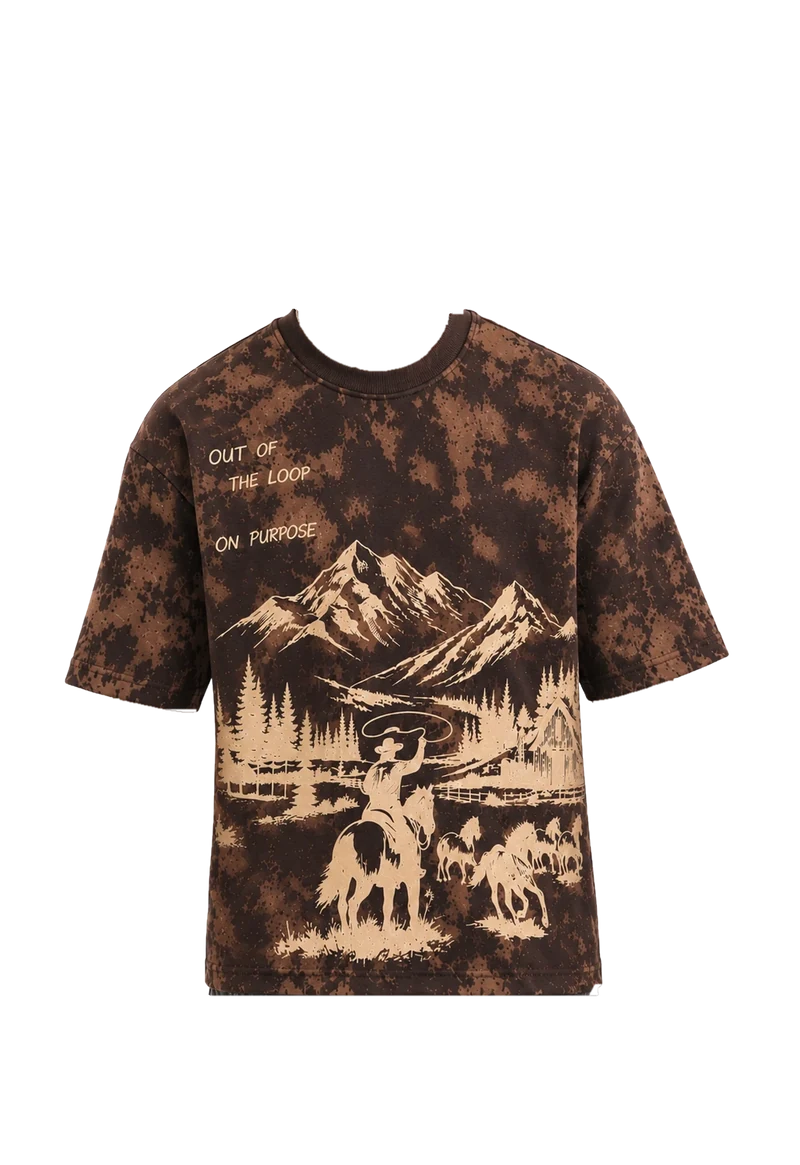
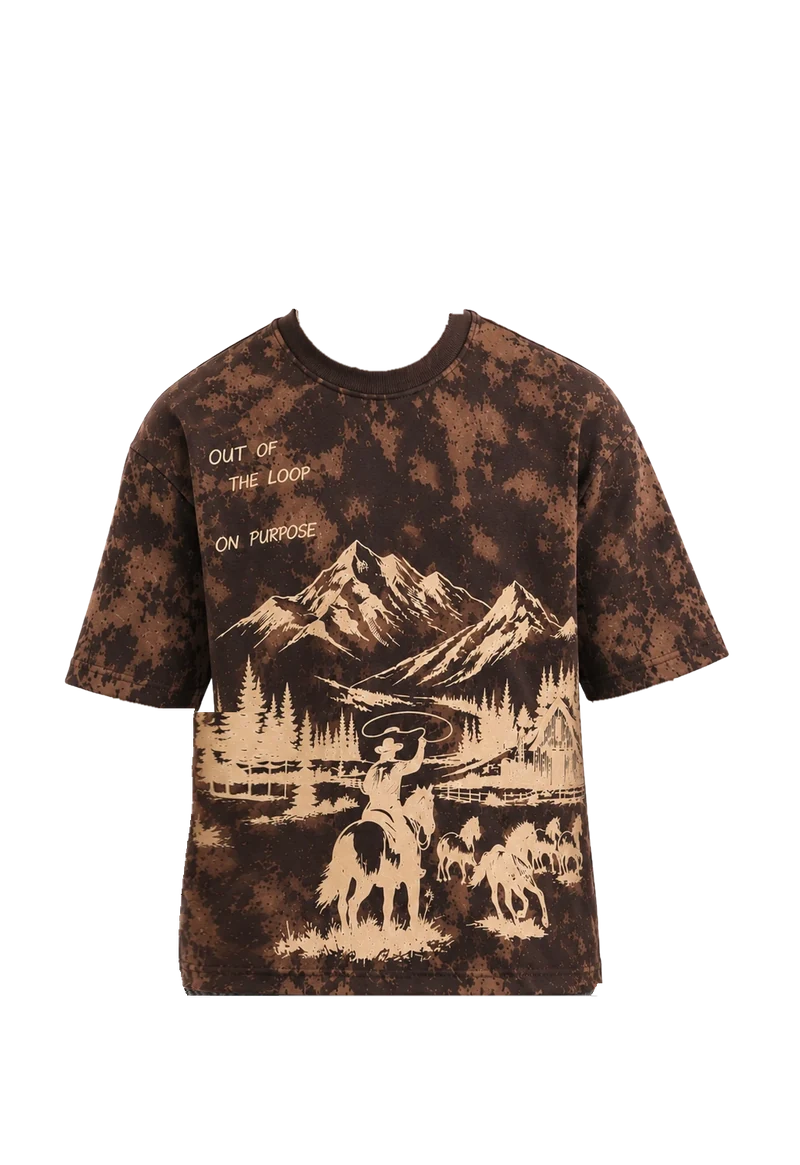
Close the gap between each tee and the model's arms
Below the sleeve, each tee's fabric now runs exactly up to the arm's
inner edge: where the edge stopped short and left a white sliver, the
last 90px of fabric are stretched to reach the arm; fabric on or beyond
the arm is removed. Print details that had left holes inside a garment
are filled.

Changed region(s): [[0.2188, 0.5871, 0.3438, 0.8652]]

diff --git a/index.html b/index.html
@@ -64,19 +64,19 @@
 
       <div class="jc__carousel">
         <div class="jc__item">
-          <img class="jc__worn" src="jacket-carousel/assets/worn1.webp?v=2" alt="Piece 01">
+          <img class="jc__worn" src="jacket-carousel/assets/worn1.webp?v=3" alt="Piece 01">
         </div>
         <div class="jc__item">
-          <img class="jc__worn" src="jacket-carousel/assets/worn2.webp?v=2" alt="Piece 02">
+          <img class="jc__worn" src="jacket-carousel/assets/worn2.webp?v=3" alt="Piece 02">
         </div>
         <div class="jc__item">
-          <img class="jc__worn" src="jacket-carousel/assets/worn3.webp?v=2" alt="Piece 03">
+          <img class="jc__worn" src="jacket-carousel/assets/worn3.webp?v=3" alt="Piece 03">
         </div>
         <div class="jc__item">
-          <img class="jc__worn" src="jacket-carousel/assets/worn4.webp?v=2" alt="Piece 04">
+          <img class="jc__worn" src="jacket-carousel/assets/worn4.webp?v=3" alt="Piece 04">
         </div>
         <div class="jc__item">
-          <img class="jc__worn" src="jacket-carousel/assets/worn5.webp?v=2" alt="Piece 05">
+          <img class="jc__worn" src="jacket-carousel/assets/worn5.webp?v=3" alt="Piece 05">
         </div>
       </div>
 

diff --git a/jacket-carousel/section.html b/jacket-carousel/section.html
@@ -17,19 +17,19 @@
 
     <div class="jc__carousel">
       <div class="jc__item">
-        <img class="jc__worn" src="jacket-carousel/assets/worn1.webp?v=2" alt="Piece 01">
+        <img class="jc__worn" src="jacket-carousel/assets/worn1.webp?v=3" alt="Piece 01">
       </div>
       <div class="jc__item">
-        <img class="jc__worn" src="jacket-carousel/assets/worn2.webp?v=2" alt="Piece 02">
+        <img class="jc__worn" src="jacket-carousel/assets/worn2.webp?v=3" alt="Piece 02">
       </div>
       <div class="jc__item">
-        <img class="jc__worn" src="jacket-carousel/assets/worn3.webp?v=2" alt="Piece 03">
+        <img class="jc__worn" src="jacket-carousel/assets/worn3.webp?v=3" alt="Piece 03">
       </div>
       <div class="jc__item">
-        <img class="jc__worn" src="jacket-carousel/assets/worn4.webp?v=2" alt="Piece 04">
+        <img class="jc__worn" src="jacket-carousel/assets/worn4.webp?v=3" alt="Piece 04">
       </div>
       <div class="jc__item">
-        <img class="jc__worn" src="jacket-carousel/assets/worn5.webp?v=2" alt="Piece 05">
+        <img class="jc__worn" src="jacket-carousel/assets/worn5.webp?v=3" alt="Piece 05">
       </div>
     </div>
 
